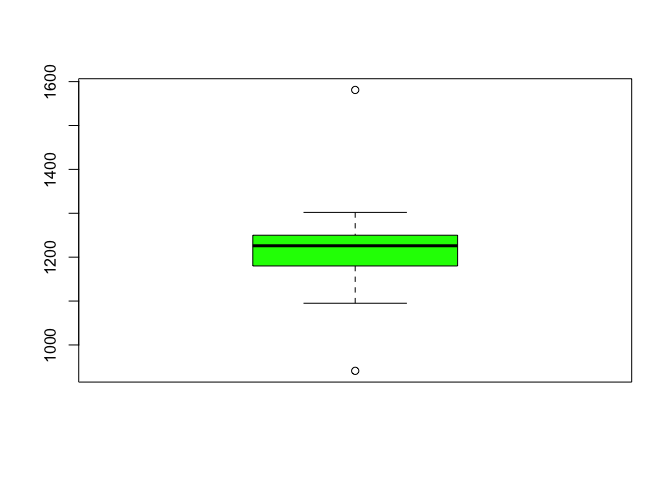
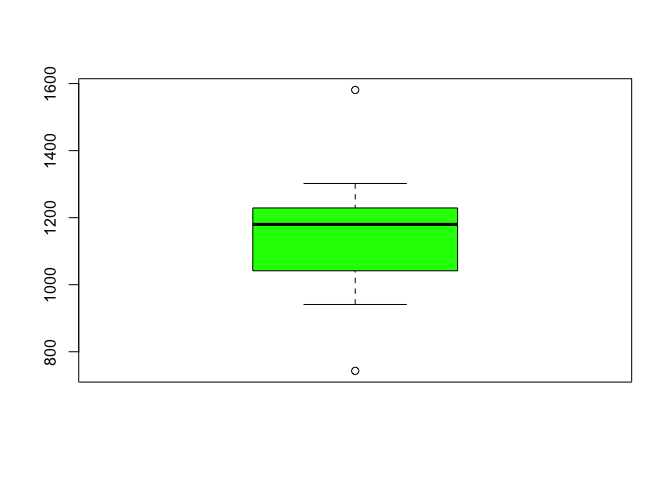
Update Datei

diff --git a/muffel.md b/muffel.md
@@ -5,16 +5,24 @@ Jagdstrecke 2012 bis 2021
 
 ### Privatjagden
 
-    ##        Jahr Jagdstrecke
-    ## 1 2020/2021        1581
-    ## 2 2019/2020        1226
-    ## 3 2018/2019        1201
-    ## 4 2017/2018        1180
-    ## 5 2016/2017        1250
-    ## 6 2015/2016        1232
-    ## 7 2014/2015        1302
-    ## 8 2013/2014        1095
-    ## 9 2012/2013         941
+    ##    Jahr Jagdstrecke
+    ## 1    21        1581
+    ## 2    20        1226
+    ## 3    19        1201
+    ## 4    18        1180
+    ## 5    17        1250
+    ## 6    16        1232
+    ## 7    15        1302
+    ## 8    14        1095
+    ## 9    13         941
+    ## 10   12        1004
+    ## 11   11        1212
+    ## 12   10        1052
+    ## 13    9        1104
+    ## 14    8        1031
+    ## 15    7         743
+
+    ## `geom_smooth()` using method = 'loess' and formula = 'y ~ x'
 
 ![](muffel_files/figure-gfm/unnamed-chunk-1-1.png)<!-- -->
 
@@ -22,18 +30,30 @@ Jagdstrecke 2012 bis 2021
 
 ### Fiskus
 
-    ##        Jahr Strecke
-    ## 1 2020/2021     244
-    ## 2 2019/2020     242
-    ## 3 2018/2019     209
-    ## 4 2017/2018     252
-    ## 5 2016/2017     226
-    ## 6 2015/2016     203
-    ## 7 2014/2015     615
-    ## 8 2013/2014     215
-    ## 9 2012/2013     215
+    ##    Jahr Strecke
+    ## 1    21     244
+    ## 2    20     242
+    ## 3    19     209
+    ## 4    18     252
+    ## 5    17     226
+    ## 6    16     203
+    ## 7    15     615
+    ## 8    14     215
+    ## 9    13     215
+    ## 10   12     244
+    ## 11   11     231
+    ## 12   10     281
+    ## 13    9     235
+    ## 14    8     239
+    ## 15    7     198
+
+    ## `geom_smooth()` using method = 'loess' and formula = 'y ~ x'
 
 ![](muffel_files/figure-gfm/unnamed-chunk-2-1.png)<!-- -->
+
+    ## `geom_smooth()` using method = 'loess' and formula = 'y ~ x'
+
+![](muffel_files/figure-gfm/unnamed-chunk-3-1.png)<!-- -->
 
 ![](muffel_files/figure-gfm/pressure1-1.png)<!-- -->
 
